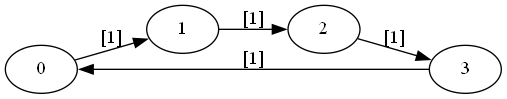
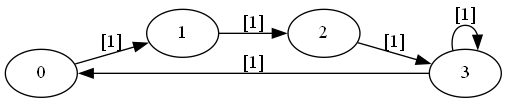
Fixed a bug in demo_roulette.py. Now last node will only have a self loop and no other connections.

diff --git a/demos/Demo_roulette.py b/demos/Demo_roulette.py
@@ -28,7 +28,7 @@ try:
     print("*" * 20 + " Initial set of actions: 1 state " + "*" * 20)
 
     # Move 4 times (full circle)
-    for x in range (100):  
+    for x in range (30):  
         arm.update_position(right)
         #print(Memory.memory)
 
@@ -64,10 +64,11 @@ try:
                         counter_test_x += 1
                         counter_test_y = (counter_test_y + 1)
 
+                    # Delete connections from last node except for thr self loop.
                     new_transition_matrix = arm.get_transition_matrix()
                     max_index = len(new_transition_matrix)-1
                     for j in range(len(new_transition_matrix)):       # for every element in the last row
-                        if (j != 0) and (j != max_index) and (len(new_transition_matrix[max_index][j]) > 0 ):
+                        if (j != max_index) and (len(new_transition_matrix[max_index][j]) > 0 ):
                             arm.delete_conection_between_nodes(max_index, j, 1)
 
                 # If there is no contradiction, continue to the next action

diff --git a/T&R_testing/graphviz_test.py b/T&R_testing/graphviz_test.py
@@ -7,9 +7,10 @@ from matplotlib import image as mpimg
 #                      [[1],[],[],[0]],
 #                      [[1],[0],[0,1],[]]]
 
-transition_matrix = [[[1],[],[0]],
-                     [[1],[0],[]],
-                     [[],[0],[]]]
+transition_matrix = [[[],[1],[],[]],
+                     [[],[],[1],[]],
+                     [[],[],[],[1]],
+                     [[1],[],[],[1]]]
 
 G = graphviz.Digraph('transition_matrix_graph', filename='tm_graph', format="png")
 G.attr(rankdir='LR', size='8,5')

diff --git a/src/external.py b/src/external.py
@@ -267,7 +267,7 @@ class External:
 
         plt.grid()
         plt.figure(1)#Teemu and Rafi
-        plt.pause(0.5) # value can be changed
+        plt.pause(2) # value can be changed
         plt.clf()
 
 
